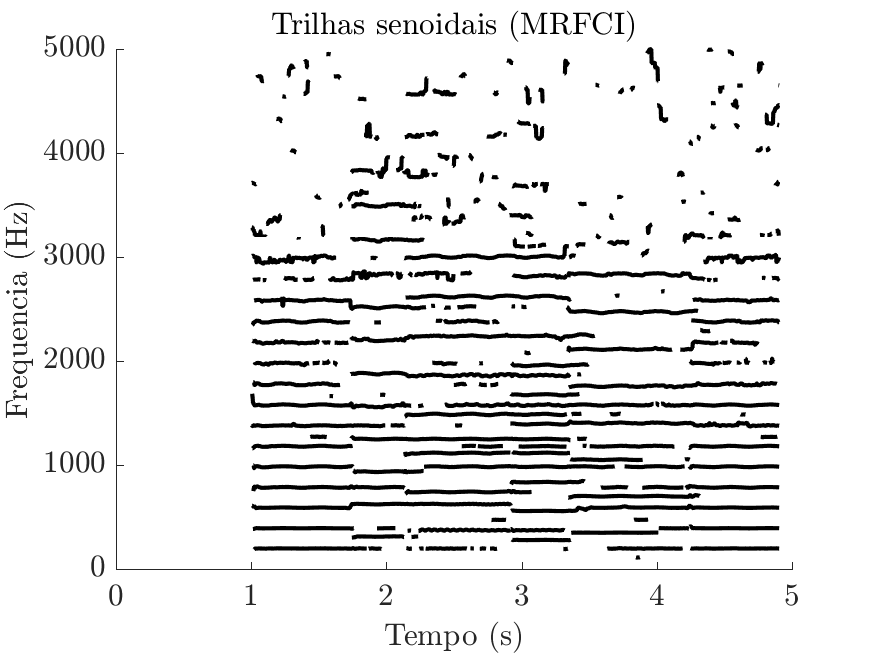
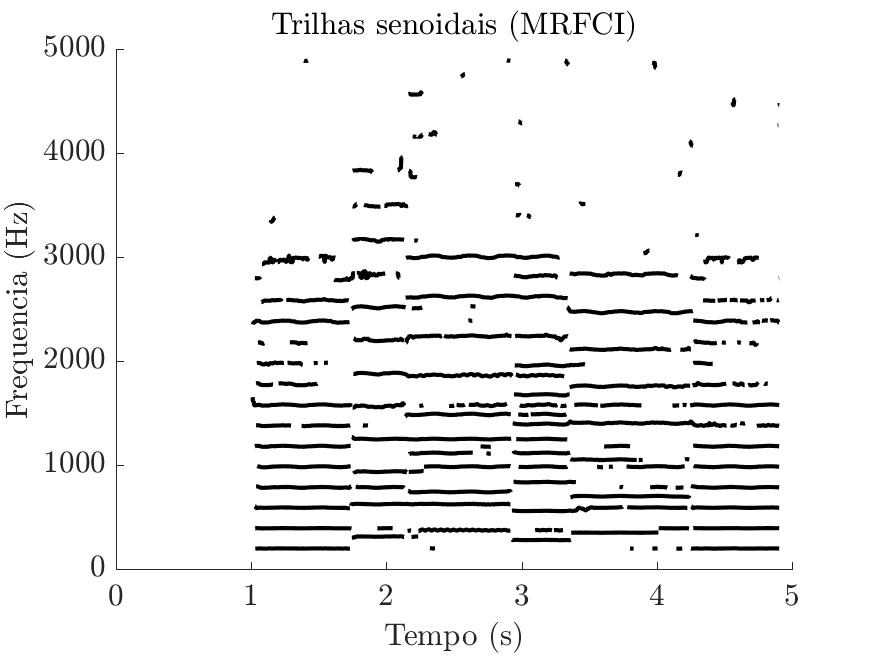
Tracking with HPSS integrated, bugfix needed

diff --git a/Projeto_Final/SA_Experiment.m b/Projeto_Final/SA_Experiment.m
@@ -22,16 +22,29 @@ end
     fs = 44100;
 
     % TFR Method
-    method_name = {'STFT', 'CQT', 'FLS', 'MRFCI'}; % TFR Methods available
-    method_flags = [0 0 0 1]; % Which method will be enabled
+    method_name = {'STFT', 'CQT', 'FLS', 'MRFCI'};  % TFR Methods available
+    method_flags = [0 0 1 0];                       % Which method will be enabled
     methods_enabled = find(method_flags);
+
+    % HPSS Options
+    HPSS_on = [];
+    if HPSS_on
+        nFilterSS = 71;             % SS filter filter size: must be odd
+        nFilterTr = 71;             % Transient filter size: must be odd
+        nIter = 1;                  % No. of HPSS iterations
+        HPSS_method = 'median';     % 'median' or 'SSE'
+        kernel_option = 'normal';   % 'normal' or 'relaxed'
+        HPSS_options = struct('nFilterSS',nFilterSS,'nFilterTr',nFilterTr,'nIter',nIter,'method',HPSS_method,'kernel_option',kernel_option);
+    else
+        HPSS_options = [];
+    end
 
     plot_enable = 1;
     print_figures = 1;
 
-    energy_ref_method = 4; % index of method that will be used as reference energy for plots (guide in method_name)
-    plot_range = 100; % dB - Power range for plotting
-    %plot_max = 10; % dB - Max plotting power
+    energy_ref_method = 4;  % index of method that will be used as reference energy for plots (guide in method_name)
+    plot_range = 100;       % dB - Power range for plotting
+    %plot_max = 10;          % dB - Max plotting power
 
 %% - - - - - - Input Reading - - - - - -  
     
@@ -51,14 +64,16 @@ end
         x = resample(x, fs, fs_orig);
     end 
 
-
 TFR = {};
 signalTracks = {};
 TFParams = {};
 
-
 for i = methods_enabled
-    [TFR{i},signalTracks{i},TFParams{i}] = SinusoidalAnalysis(x,fs,method_name{i});
+    if HPSS_on
+        [TFR{i},signalTracks{i},TFParams{i}] = SinusoidalAnalysis(x,fs,method_name{i},HPSS_on,HPSS_options);
+    else
+        [TFR{i},signalTracks{i},TFParams{i}] = SinusoidalAnalysis(x,fs,method_name{i});
+    end
 end
 
 %% - - - - - - Making first frame zero
@@ -83,12 +98,17 @@ end
 
 if plot_enable
     for i = methods_enabled
+        if HPSS_on
+            plot_method_name = [method_name{i} '-SS'];
+        else
+            plot_method_name = method_name{i};
+        end
         plot_max = max(max(10*log10(TFR{i})));
         PlotSpectrogram_ylin(TFParams{i}.freqComponents,TFParams{i}.timeInstants,[plot_max-plot_range plot_max],10*log10(TFR{i}));
-        title(sprintf('RTF (%s)',method_name{i}));
+        title(sprintf('RTF (%s)',plot_method_name));
 
         if print_figures
-            tit = [signal_name '_RTF_' method_name{i}];
+            tit = [signal_name '_RTF_' plot_method_name];
             tit(tit=='.') = '_'; tit(tit==' ') = '';
             figProp = struct('size', 15,'font','Helvetica','lineWidth',2,'figDim',[1 1 560 420]); % Thesis
             figFileName = [figsPath tit];
@@ -97,10 +117,10 @@ if plot_enable
         end
 
         organizedTracks = PlotTracks(signalTracks{i},TFParams{i}.timeInstants);
-        title(sprintf('Trilhas senoidais (%s)',method_name{i}));
+        title(sprintf('Trilhas senoidais (%s)',plot_method_name));
 
         if print_figures
-            tit = [signal_name '_tracks_' method_name{i}];
+            tit = [signal_name '_tracks_' plot_method_name];
             tit(tit=='.') = '_'; tit(tit==' ') = '';
             figProp = struct('size', 15,'font','Helvetica','lineWidth',2,'figDim',[1 1 560 420]); % Thesis
             figFileName = [figsPath tit];

diff --git a/Projeto_Final/functions/sin_analysis/SinusoidalAnalysis.m b/Projeto_Final/functions/sin_analysis/SinusoidalAnalysis.m
@@ -1,4 +1,4 @@
-function [TFR_base,signalTrackArray,TFParams] = SinusoidalAnalysis(inputSignal,fs,TFR_method)
+function [TFR_base,signalTrackArray,TFParams] = SinusoidalAnalysis(inputSignal,fs,TFR_method,varargin)
     
     %   This function makes a full sinusoidal analysis of a given signal, using auxiliary functions for modularity.
     %
@@ -11,10 +11,10 @@ function [TFR_base,signalTrackArray,TFParams] = SinusoidalAnalysis(inputSignal,f
 
     DEBUG = 1;
 
-    fprintf('\n\n------- SINUSOIDAL ANALYSIS STARTED ------\n\n');
+    fprintf('\n------- SINUSOIDAL ANALYSIS STARTED ------\n');
 
     % -------------------------------------- TFR stage -------------------------------------------
-
+        fprintf('\nTime-frequency analysis starting...\n');
         if strcmp(TFR_method,'STFT')
             [TFR_base, freqComponents, timeInstants] = TFAnalysis_STFT(inputSignal,fs);
         elseif strcmp(TFR_method,'CQT')
@@ -28,11 +28,17 @@ function [TFR_base,signalTrackArray,TFParams] = SinusoidalAnalysis(inputSignal,f
         end
         
         % -------------------------- HPSS stage -------------------------------
-        nFilterSS = 71; % Must be odd
-        nFilterTr = 71; % Must be odd
-        nIter = 1;
-        method = 'median'; % 'median' or 'SSE'
-        [TFR_base, ~, ~] = Iterative_HPR_Separation(TFR_base, nFilterSS, nFilterTr, nIter, method);
+        if ~isempty(varargin)
+            if strcmp(varargin(1),'HPSS')
+                fprintf('\nHarmonic-percussive separation starting...\n');
+                HPSS_Params = varargin{2}
+                [TFR_base, ~, ~] = Iterative_HPR_Separation(TFR_base, HPSS_Params.nFilterSS, HPSS_Params.nFilterTr,...
+                                                            HPSS_Params.nIter, HPSS_Params.method, HPSS_Params.kernel_option);
+                fprintf('Harmonic-percussive separation finished.\n');
+            else
+                error('Invalid optional 1st argument. Either empty or ''HPSS''.');
+            end
+        end
         
         %TFR Information    
         powerMatrix = 10*log10(TFR_base);
@@ -118,4 +124,4 @@ function [TFR_base,signalTrackArray,TFParams] = SinusoidalAnalysis(inputSignal,f
             %organizedTracks = PlotTracks(frameArray,timeInstants);
         %end
     
-    fprintf('\n\n------- SINUSOIDAL ANALYSIS FINISHED ------\n\n');
+    fprintf('\n------- SINUSOIDAL ANALYSIS FINISHED ------\n');

diff --git a/Projeto_Final/functions/transient_ss_separation/Iterative_HPR_Separation.m b/Projeto_Final/functions/transient_ss_separation/Iterative_HPR_Separation.m
@@ -37,7 +37,7 @@ function [ spectrg_SS, spectrg_Tr, spectrg_Res ] = Iterative_HPR_Separation(spec
     end
     if (nargin > 5)
         if (nargin > 6 && (~nnz(ismember(varargin,'dB')) | ~nnz(ismember(varargin,'relaxed'))))
-            error('Invalid optional arguments inserted. Options are ''dB'' and/or ''relaxed''.');
+            error('Invalid optional arguments inserted. Options are ''dB'' and/or ''relaxed''/''normal''.');
         elseif (nnz(ismember(varargin,'dB')) && ~strcmpi(method,'SSE')) 
             error('Cannot have dB with non-SSE method.');
         elseif nnz(ismember(varargin,'relaxed')) %Relaxed components

diff --git a/Projeto_Final/TFAnalysis_Experiment.m b/Projeto_Final/TFAnalysis_Experiment.m
@@ -1,11 +1,11 @@
 %   This script makes a time-frequency analysis of a signal.
 
 if isunix
-    figsPath = path_check('./figures_out/test/TFRs/');
+    figsPath = path_check('./figures_out/TFRs/');
     addpath ./audio_src
     dirbar = '/';
 else
-    figsPath = path_check('.\figures_out\test\TFRs\');
+    figsPath = path_check('.\figures_out\TFRs\');
     addpath .\audio_src
     dirbar = '\';
 end

diff --git a/Projeto_Final/HPSS_Experiment.m b/Projeto_Final/HPSS_Experiment.m
@@ -1,9 +1,9 @@
-%TFAnalysis_Experiment;
+TFAnalysis_Experiment;
 
 if isunix
-    figsPath = path_check('./figures_out/HPSS_Experiment/');
+    figsPath = path_check('./figures_out/SS-Transient/');
 else
-    figsPath = path_check('.\figures_out\HPSS_Experiment\');
+    figsPath = path_check('.\figures_out\SS-Transient\');
 end
 
 % Method
